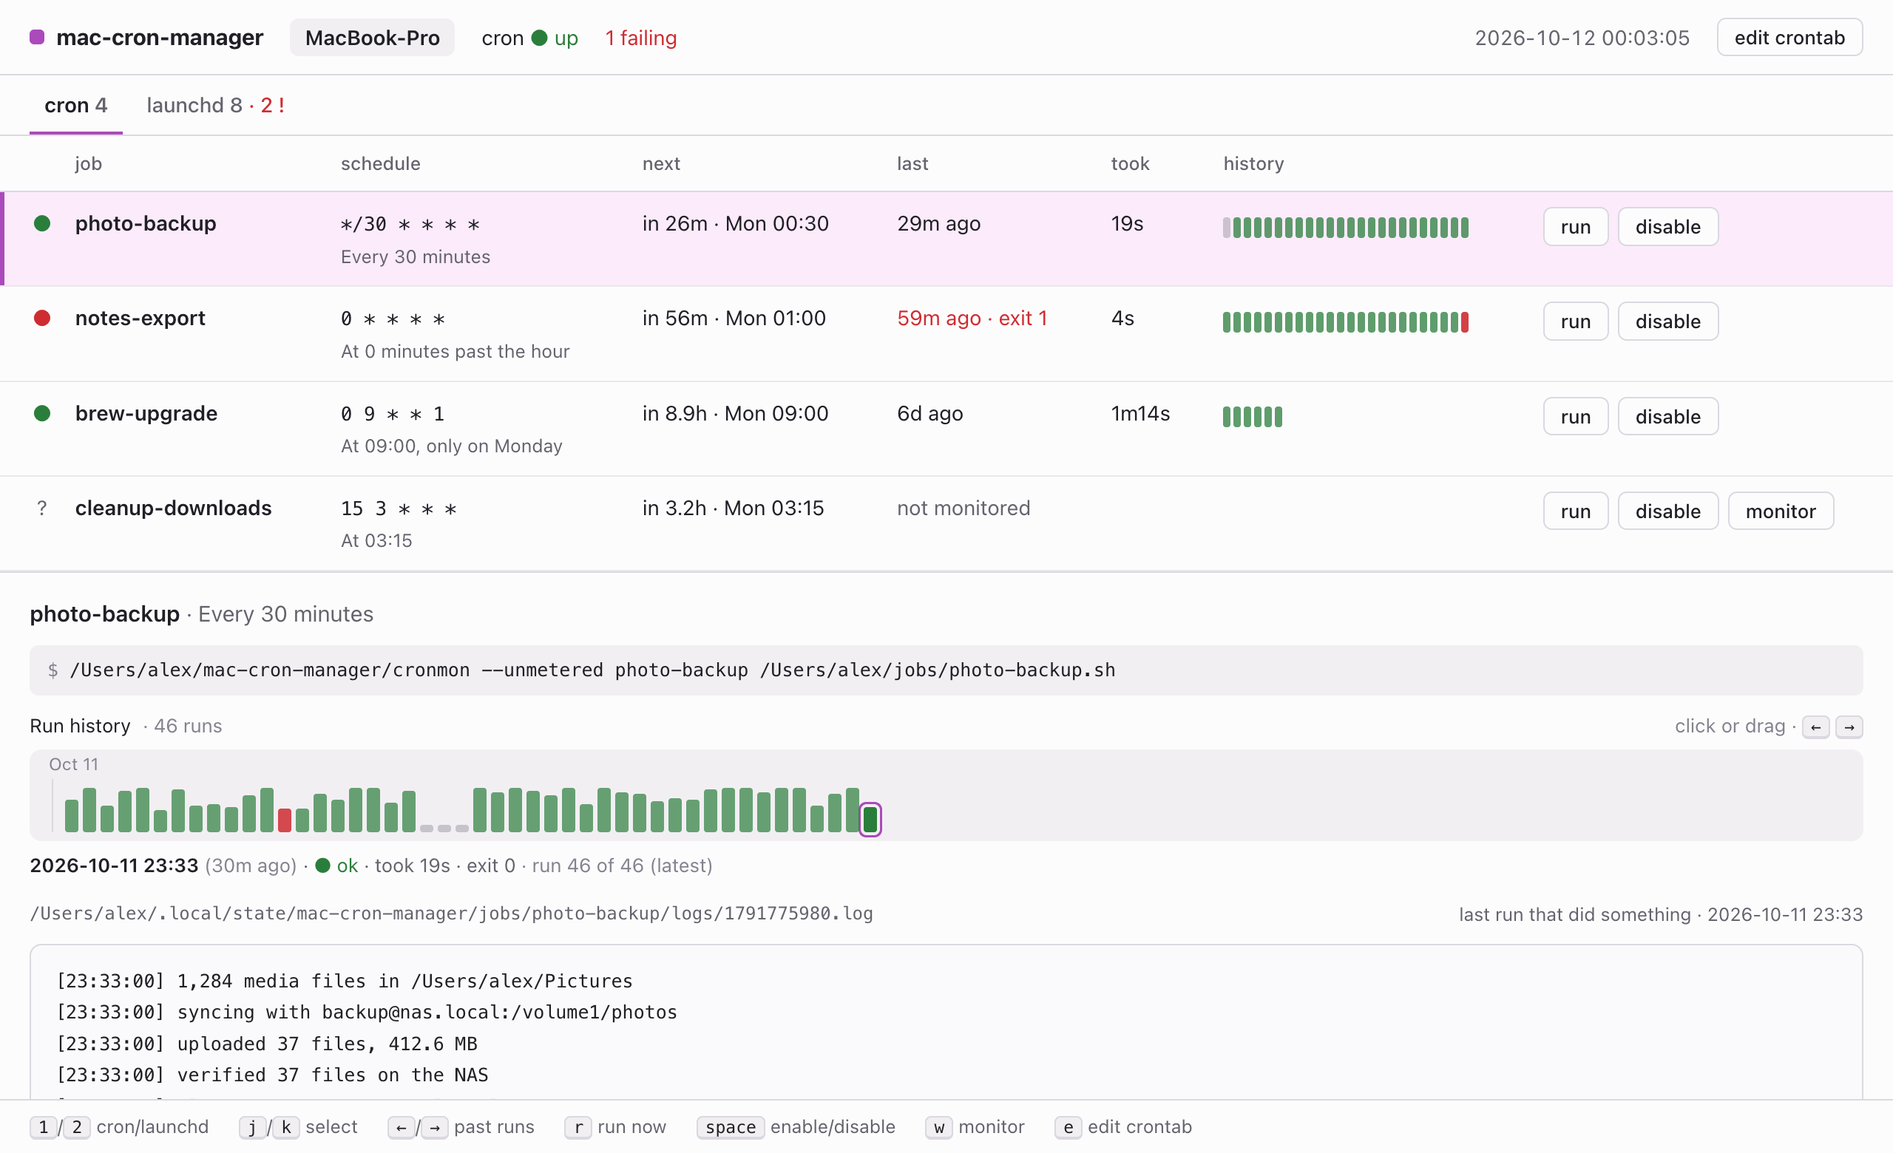
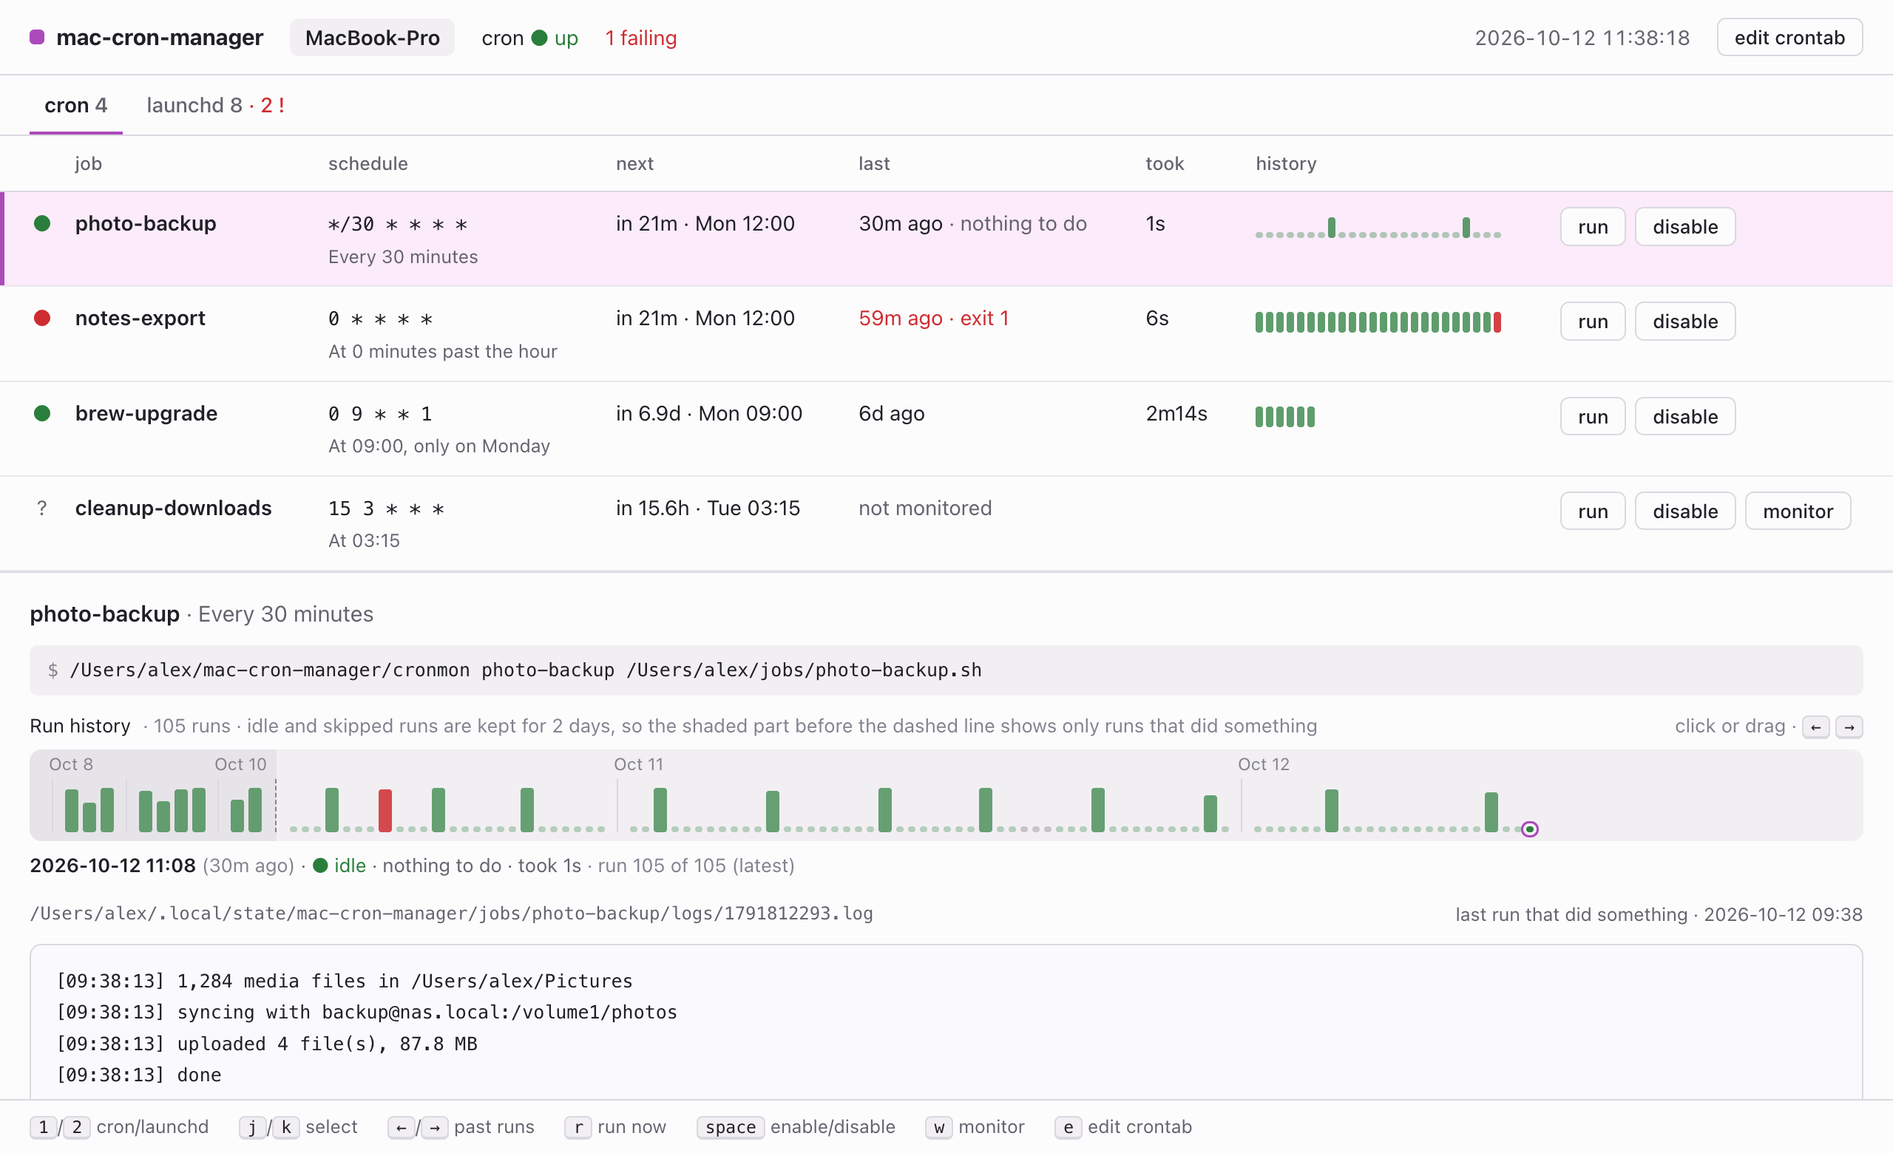
Idle runs, kept history and a generic --when check
- A job can write "idle" or a one-line summary to $CRONMON_RESULT. Idle and
  skipped runs show as dots and are kept for MCM_KEEP_IDLE_DAYS (2); runs that
  did something stay, with the output of the last MCM_KEEP_LOGS (100). The
  timeline shades the older part where only those are left, and the log pane
  defaults to the last run that did something.
- cronmon --unmetered becomes --when CHECK: any shell command, checked before
  the run and every 20 s during it. netcheck, the hotspot check it used, leaves
  this repo.
- Job names are parsed with shell rules, so --when "..." with spaces works.
- Next runs more than two days away read in days.

diff --git a/static/index.html b/static/index.html
@@ -81,21 +81,28 @@
   .dot { display: inline-block; width: 1.2em; text-align: center; }
   .spin { display: inline-block; animation: spin 1s steps(8) infinite; }
   @keyframes spin { to { transform: rotate(360deg); } }
-  .hist { display: inline-flex; gap: 2px; vertical-align: middle; padding-top: 3px; }
+  .hist { display: inline-flex; align-items: flex-end; gap: 2px; vertical-align: middle; height: 17px; }
   .hist i { width: 5px; height: 14px; border-radius: 2px; background: var(--ok); opacity: .75; cursor: pointer; }
   .hist i.fail { background: var(--fail); opacity: .9; } .hist i.skipped { background: var(--faint); opacity: .4; }
+  .hist i.idle, .hist i.skipped { height: 4px; } .hist i.idle { opacity: .35; }
   .hist i:hover { opacity: 1; } .hist i.on { opacity: 1; box-shadow: 0 0 0 1.5px var(--accent); }
 
   .runs { display: flex; flex-direction: column; gap: 6px; }
   .runhead { display: flex; align-items: center; gap: 8px; font-size: 13px; }
   .runhead button { padding: 1px 9px; font-size: 12.5px; }
-  .strip { position: relative; display: flex; align-items: stretch; gap: 3px; height: 62px; padding: 20px 10px 6px;
+  .strip { position: relative; isolation: isolate; display: flex; align-items: stretch; gap: 3px; height: 62px; padding: 20px 10px 6px;
            overflow-x: auto; overflow-y: hidden; background: var(--panel); border-radius: 8px; cursor: pointer;
            user-select: none; -webkit-user-select: none; touch-action: pan-y; scrollbar-width: thin; }
   .strip i { flex: 0 0 9px; display: flex; align-items: flex-end; }
   .strip i::after { content: ""; width: 100%; height: var(--h); border-radius: 2px; background: var(--ok); opacity: .7; }
   .strip i.fail::after { background: var(--fail); opacity: .85; }
   .strip i.skipped::after { background: var(--faint); opacity: .4; }
+  .strip i.idle, .strip i.skipped { flex-basis: 5px; }   /* did nothing: a dot, not a bar */
+  .strip i.idle::after { opacity: .3; }
+  /* left of the dashed line, idle and skipped runs are no longer kept: shade that part */
+  .strip .cut { flex: 0 0 0; border-left: 1px dashed var(--faint); position: relative; margin: 0 6px; }
+  .strip .cut::before { content: ""; position: absolute; z-index: -1; right: 0; top: -20px; bottom: -6px; width: 100000px;
+                        background: color-mix(in srgb, var(--faint) 10%, transparent); }
   .strip i.running::after { opacity: 1; animation: pulse 1.2s ease-in-out infinite alternate; }
   @keyframes pulse { from { opacity: .35; } }
   .strip i:hover::after { opacity: 1; }
@@ -201,6 +208,7 @@ let filter = "all";
 let sel = { cron: null, launchd: null };
 let detailKey = null, logSig = null, follow = true;
 let runs = {}, runsSig = {};   // cron job name -> all recorded runs (/api/runs), and what they were fetched for
+let idleDays = 2;              // idle and skipped runs older than this are no longer kept (cronmon's MCM_KEEP_IDLE_DAYS)
 let selRun = {};               // cron job name -> start of the past run being viewed (absent: the latest)
 let logTimer = null, reveal = false;  // reveal: scroll the selected run into view once
 
@@ -252,6 +260,7 @@ function cronLast(j) {
   if (!j.last) return '<span class="dim">never</span>';
   if (j.last.status === "fail") return `<span class="fail">${ago(j.last.end)} · exit ${j.last.exit}</span>`;
   if (j.last.status === "skipped") return `${ago(j.last.end)} <span class="dim">· skipped${j.last.reason ? ` (${esc(j.last.reason)})` : ""}</span>`;
+  if (j.last.status === "idle") return `${ago(j.last.end)} <span class="dim">· nothing to do</span>`;
   return ago(j.last.end);
 }
 function cronTook(j) {
@@ -268,7 +277,7 @@ const cronRow = (j) => `
     <td>${cronLast(j)}</td>
     <td>${cronTook(j)}</td>
     <td><span class="hist">${j.history.map((h) => `<i class="${h.status} ${selRun[j.name] === h.start ? "on" : ""}" data-run="${h.start}"
-      title="${esc(`${when(h.start)} · ${h.reason || h.status}`)}"></i>`).join("")}</span></td>
+      title="${esc(`${when(h.start)} · ${h.summary || h.reason || h.status}`)}"></i>`).join("")}</span></td>
     <td><span class="actions">
       <button data-act="run" ${j.running_since ? "disabled" : ""} title="r">run</button>
       <button data-act="toggle" title="space">${j.enabled ? "disable" : "enable"}</button>
@@ -412,16 +421,18 @@ function showLog(text, files, empty = "(no log)") {
 async function loadCronLog(j) {
   if (!j.monitored) { showLog("", ""); return; }
   loadRuns(j);
-  const run = selRun[j.name];
+  const picked = selRun[j.name];
+  // Unless a run is picked (or one is live), show the last run that did something, not the latest idle one.
+  const real = runList(j).filter((x) => x.status === "ok" || x.status === "fail").at(-1);
+  const run = picked ?? (j.running_since ? undefined : real?.start);
   try {
     const data = await api(`/api/log?name=${encodeURIComponent(j.name)}` + (run ? `&run=${run}` : ""));
-    if (tab !== "cron" || j.name !== sel.cron || selRun[j.name] !== run) return;
+    if (tab !== "cron" || j.name !== sel.cron || selRun[j.name] !== picked) return;
     const r = run && runList(j).find((x) => x.start === run);
     const empty = r?.status === "skipped" ? `(skipped${r.reason ? `: ${r.reason}` : ""}: nothing ran, so there is no output)`
-      : run ? "(this run's output wasn't kept: output is saved per run from now on, for the last 100 runs)" : "(no log)";
+      : run ? "(this run's output wasn't kept: only the last 100 runs that did something keep theirs)" : "(no log)";
     $("#logfile").textContent = data.exists ? data.file : "";
-    const real = runList(j).filter((x) => x.status !== "skipped").at(-1);  // skipped runs leave last.log alone
-    $("#logstate").innerHTML = run ? `run of ${esc(when(run))}` : j.running_since ? '<span class="ok">● live</span>'
+    $("#logstate").innerHTML = picked ? `run of ${esc(when(picked))}` : j.running_since ? '<span class="ok">● live</span>'
       : real ? `last run that did something · ${esc(when(real.start))}` : "last run";
     showLog(data.exists ? data.text : "", data.file, empty);
   } catch { /* agent restarting; next poll retries */ }
@@ -437,14 +448,18 @@ function runList(j) {
 async function loadRuns(j) {
   const sig = `${j.last?.start}:${j.last?.end}:${j.running_since}`;
   if (runsSig[j.name] !== sig) {
-    try { runs[j.name] = (await api(`/api/runs?name=${encodeURIComponent(j.name)}`)).runs; } catch { return; }
+    try {
+      const data = await api(`/api/runs?name=${encodeURIComponent(j.name)}`);
+      runs[j.name] = data.runs;
+      idleDays = data.idle_days ?? idleDays;
+    } catch { return; }
     runsSig[j.name] = sig;
   }
   if (tab === "cron" && sel.cron === j.name) drawStrip(j);
 }
 
 function barHeight(r) {
-  if (r.status === "skipped") return 5;
+  if (r.status === "skipped" || r.status === "idle") return 4;
   if (r.status === "running") return 30;
   return Math.round(Math.min(30, 6 + 5 * Math.log2(1 + (r.end - r.start) / 5)));  // longer runs, taller bars
 }
@@ -456,19 +471,31 @@ function drawStrip(j) {
   const sig = `${list.length}:${list.at(-1)?.start}:${list.at(-1)?.status}`;
   if (strip.dataset.sig !== sig) {
     const atEnd = !strip.dataset.sig || strip.scrollLeft + strip.clientWidth >= strip.scrollWidth - 4;
-    let html = "", day = "";
-    for (const r of list) {
+    const cutoff = Date.now() / 1000 - idleDays * 86400;
+    let html = "", day = "", cut = false, x = 0, labelX = -1e9;  // x: rough position, to keep day labels apart
+    for (const [i, r] of list.entries()) {
+      if (!cut && r.start >= cutoff) {  // before this point, only the runs that did something are kept
+        cut = true;
+        if (i > 0) html += `<span class="cut" title="idle and skipped runs are kept for ${idleDays} days"></span>`;
+        x += 12;
+      }
       const d = new Date(r.start * 1000);
       if (d.toDateString() !== day) {
         day = d.toDateString();
-        html += `<span class="day"><em>${d.toLocaleDateString(undefined, { month: "short", day: "numeric" })}</em></span>`;
+        const room = x - labelX >= 56;
+        if (room) labelX = x;
+        html += `<span class="day">${room ? `<em>${d.toLocaleDateString(undefined, { month: "short", day: "numeric" })}</em>` : ""}</span>`;
+        x += 11;
       }
       html += `<i class="${r.status}" data-run="${r.start}" style="--h:${barHeight(r)}px"></i>`;
+      x += r.status === "idle" || r.status === "skipped" ? 8 : 12;
     }
+    const kept = list.length && list[0].start < cutoff;
     strip.innerHTML = html || '<span class="faint">no runs yet</span>';
     strip.dataset.sig = sig;
     if (atEnd) strip.scrollLeft = strip.scrollWidth;
-    $("#runcount").textContent = list.length ? `· ${list.length} runs` : "";
+    $("#runcount").textContent = !list.length ? "" : `· ${list.length} runs · idle and skipped runs are kept for ${idleDays} days`
+      + (kept ? ", so the shaded part before the dashed line shows only runs that did something" : "");
   }
   markRun(j);
 }
@@ -492,7 +519,8 @@ function markRun(j) {
   if (!r) { $("#runmeta").innerHTML = ""; return; }
   const pos = `<span class="faint">· run ${i + 1} of ${list.length}${j.name in selRun ? "" : " (latest)"}</span>`;
   const head = {
-    ok: `<span class="ok">● ok</span> · took ${dur(r.end - r.start)} · exit 0`,
+    ok: `<span class="ok">● ok</span>${r.summary ? ` · ${esc(r.summary)}` : ""} · took ${dur(r.end - r.start)} · exit 0`,
+    idle: `<span class="ok">● idle</span> · nothing to do · took ${dur(r.end - r.start)}`,
     fail: `<span class="fail">● failed</span> · took ${dur(r.end - r.start)} · exit ${r.exit}`,
     skipped: `<span class="faint">● skipped</span>${r.reason ? ` · ${esc(r.reason)}` : ""}`,
     running: `<span class="ok">● running</span> · ${dur(Date.now() / 1000 - r.start)} so far`,

diff --git a/docs/screenshots.py b/docs/screenshots.py
@@ -32,23 +32,35 @@ random.seed(7)
 
 # ---------------------------------------------------------------- made-up cron jobs
 
-def make_runs(every: int, count: int, took: tuple[int, int], fail_at=(), skip_at=()) -> list[dict]:
+def make_runs(every: int, count: int, took: tuple[int, int], fail_at=(), skip_at=(), work_at=None) -> list[dict]:
+    """Runs ending now. With work_at, only those runs did something and the rest were idle; like cronmon,
+    idle and skipped runs older than two days are left out."""
     runs = []
     for i in range(count):
         start = NOW - (count - i) * every + random.randint(0, 3)
         if i in skip_at:
-            runs.append({"start": start, "end": start, "exit": None, "status": "skipped", "reason": "iPhone Personal Hotspot"})
+            run = {"start": start, "end": start, "exit": None, "status": "skipped", "reason": "iPhone Personal Hotspot"}
+        elif i in fail_at:
+            run = {"start": start, "end": start + random.randint(*took), "exit": 1, "status": "fail"}
+        elif work_at is not None and i not in work_at:
+            run = {"start": start, "end": start + random.randint(1, 3), "exit": 0, "status": "idle"}
+        else:
+            run = {"start": start, "end": start + random.randint(*took), "exit": 0, "status": "ok"}
+            if work_at is not None:
+                n = random.randint(3, 60)
+                run["summary"] = f"uploaded {n} file(s), {n * random.uniform(8, 30):.1f} MB" + (
+                    f"; deleted {random.randint(5, 80)}" if random.random() < .5 else "")
+        if run["status"] in ("idle", "skipped") and start < NOW - 2 * 86400:
             continue
-        end = start + random.randint(*took)
-        status = "fail" if i in fail_at else "ok"
-        runs.append({"start": start, "end": end, "exit": 1 if status == "fail" else 0, "status": status})
+        runs.append(run)
     return runs
 
 
 CRON = [
     ("photo-backup", "*/30 * * * *", "Every 30 minutes",
-     f"{HOME}/mac-cron-manager/cronmon --unmetered photo-backup {HOME}/jobs/photo-backup.sh",
-     make_runs(1800, 46, (4, 190), fail_at={12}, skip_at={20, 21, 22})),
+     f"{HOME}/mac-cron-manager/cronmon photo-backup {HOME}/jobs/photo-backup.sh",
+     make_runs(1800, 190, (20, 190), fail_at={101}, skip_at={150, 151, 152},
+               work_at={3, 11, 19, 27, 40, 52, 66, 79, 88, 97, 105, 112, 121, 130, 139, 147, 156, 165, 173, 186})),
     ("notes-export", "0 * * * *", "At 0 minutes past the hour",
      f"{HOME}/mac-cron-manager/cronmon notes-export {HOME}/jobs/notes-export.sh",
      make_runs(3600, 24, (2, 9), fail_at={23})),
@@ -61,9 +73,8 @@ CRON = [
 LOGS = {
     "photo-backup": """[{t}] 1,284 media files in {home}/Pictures
 [{t}] syncing with backup@nas.local:/volume1/photos
-[{t}] uploaded 37 files, 412.6 MB
-[{t}] verified 37 files on the NAS
-[{t}] cleanup: 52 verified files older than 30 days can be removed""",
+[{t}] {summary}
+[{t}] done""",
     "notes-export": """[{t}] exporting 312 notes to {home}/Documents/notes-export
 [{t}] error: {home}/Documents/notes-export: Operation timed out
 [{t}] export failed after 1 attempt""",
@@ -77,7 +88,7 @@ def cron_json(i, name, schedule, desc, command, runs):
         "command": command, "enabled": True, "monitored": monitored, "running_since": None,
         "next": core.next_run(core.Job(i, "", schedule, command, True, name, monitored)),
         "last": runs[-1] if runs else None,
-        "history": [{"start": r["start"], "status": r["status"], "reason": r.get("reason", "")} for r in runs[-24:]],
+        "history": [{k: r.get(k) for k in ("start", "status", "reason", "summary")} for r in runs[-24:]],
         "warning": "",
     }
 
@@ -85,10 +96,12 @@ def cron_json(i, name, schedule, desc, command, runs):
 def log_for(name: str, run: str) -> dict:
     runs = next(r for n, *_, r in CRON if n == name)
     start = int(run) if run.isdigit() else next((r["start"] for r in reversed(runs) if r["status"] != "skipped"), NOW)
-    if any(r["start"] == start and r["status"] == "skipped" for r in runs):
+    r = next((r for r in runs if r["start"] == start), {})
+    if r.get("status") == "skipped":
         return {"file": "", "text": "", "exists": False}
     t = time.strftime("%H:%M:%S", time.localtime(start))
-    text = LOGS.get(name, "[{t}] done").format(t=t, home=HOME)
+    summary = r.get("summary") or ("nothing new to upload or delete" if r.get("status") == "idle" else "uploaded 37 files, 412.6 MB")
+    text = LOGS.get(name, "[{t}] done").format(t=t, home=HOME, summary=summary)
     return {"file": f"{STATE}/{name}/logs/{start}.log", "text": text, "exists": True}
 
 
@@ -153,7 +166,7 @@ class Handler(BaseHTTPRequestHandler):
                                "jobs": [cron_json(i, *job) for i, job in enumerate(CRON)]})
         if url.path == "/api/runs":
             runs = next(r for n, *_, r in CRON if n == q["name"])
-            return self.reply({"runs": [{**r, "log": r["status"] != "skipped"} for r in runs]})
+            return self.reply({"runs": [{**r, "log": r["status"] != "skipped"} for r in runs], "idle_days": 2})
         if url.path == "/api/log":
             return self.reply(log_for(q["name"], q.get("run", "")))
         if url.path == "/api/launchd":

diff --git a/core.py b/core.py
@@ -22,7 +22,6 @@ STATE = Path(os.environ.get("MCM_STATE", Path.home() / ".local/state/mac-cron-ma
 OFF = "#off# "
 HISTORY_LEN = 24
 ENV_RE = re.compile(r"^[A-Za-z_][A-Za-z0-9_]*\s*=")
-CRONMON_RE = re.compile(r"cronmon\s+(?:--\S*\s+)*([^-\s]\S*)")  # skips options like --unmetered
 TCC_HINT = ("macOS blocked file access: add /usr/sbin/cron to System Settings → "
             "Privacy & Security → Full Disk Access.")
 
@@ -102,6 +101,21 @@ def split_line(raw: str):
     return (" ".join(parts[:n]), parts[n], enabled) if len(parts) == n + 1 else None
 
 
+def cronmon_name(command: str) -> str | None:
+    """The job name in `.../cronmon [--when CHECK] NAME COMMAND...`, or None if cronmon isn't used."""
+    try:
+        words = shlex.split(command)
+    except ValueError:
+        return None
+    for i, word in enumerate(words):
+        if Path(word).name == "cronmon":
+            rest = words[i + 1:]
+            while rest and rest[0].startswith("--"):
+                rest = rest[2:] if rest[0] == "--when" else rest[1:]
+            return rest[0] if rest else None
+    return None
+
+
 def parse_jobs(lines: list[str]) -> list[Job]:
     jobs = []
     for i, raw in enumerate(lines):
@@ -109,9 +123,8 @@ def parse_jobs(lines: list[str]) -> list[Job]:
         if not parsed:
             continue
         schedule, command, enabled = parsed
-        m = CRONMON_RE.search(command)
-        name = m.group(1) if m else Path(command.split()[0]).name
-        jobs.append(Job(i, raw, schedule, command, enabled, name, bool(m)))
+        name = cronmon_name(command)
+        jobs.append(Job(i, raw, schedule, command, enabled, name or Path(command.split()[0]).name, bool(name)))
     return jobs
 
 
@@ -180,7 +193,7 @@ def cron_up() -> bool:
 def until(when: datetime) -> str:
     """'in 25m · Sun 23:30'"""
     delta = (when - datetime.now()).total_seconds()
-    left = f"{int(delta // 60)}m" if delta < 3600 else f"{delta / 3600:.1f}h"
+    left = f"{int(delta // 60)}m" if delta < 3600 else f"{delta / 3600:.1f}h" if delta < 2 * 86400 else f"{delta / 86400:.1f}d"
     return f"in {left} · {when:%a %H:%M}"
 
 

diff --git a/web.py b/web.py
@@ -29,6 +29,7 @@ LOCAL_ORIGINS = {f"http://{h}" for h in ALLOWED_HOSTS}
 HOSTED_ORIGINS = {o.strip().rstrip("/") for o in
                   os.environ.get("MCM_HOSTED_ORIGINS", "https://induction-axiom.github.io").split(",") if o.strip()}
 INDEX = core.HERE / "static" / "index.html"
+KEEP_IDLE_DAYS = int(os.environ.get("MCM_KEEP_IDLE_DAYS", "2"))  # cronmon's default too
 
 
 def job_json(job: core.Job) -> dict:
@@ -37,7 +38,7 @@ def job_json(job: core.Job) -> dict:
         "schedule": job.schedule, "desc": core.describe(job.schedule), "command": job.command,
         "enabled": job.enabled, "monitored": job.monitored, "running_since": job.running_since,
         "next": core.next_run(job), "last": job.last,
-        "history": [{"start": r["start"], "status": r["status"], "reason": r.get("reason", "")} for r in job.history],
+        "history": [{k: r.get(k) for k in ("start", "status", "reason", "summary")} for r in job.history],
         "warning": job.warning(),
     }
 
@@ -112,7 +113,8 @@ class Handler(BaseHTTPRequestHandler):
             if not job:
                 return self.reply(404, {"error": "no such job"})
             if path == "/api/runs":
-                return self.reply(200, {"runs": [{**r, "log": job.run_log(r["start"]).exists()} for r in job.runs]})
+                return self.reply(200, {"runs": [{**r, "log": job.run_log(r["start"]).exists()} for r in job.runs],
+                                        "idle_days": KEEP_IDLE_DAYS})
             run = self.query("run")
             f = job.run_log(int(run)) if run.isdigit() else job.log_file
             text = "\n".join(f.read_text(errors="replace").splitlines()[-500:]) if f.exists() else ""

diff --git a/README.md b/README.md
@@ -44,14 +44,25 @@ command yourself:
 */30 * * * * ~/mac-cron-manager/cronmon photo-backup ~/jobs/photo-backup.sh
 ```
 
-Add `--unmetered` after `cronmon` to skip a job while your Mac is on a phone
-hotspot.
+A job can also write `idle` to the file named by `$CRONMON_RESULT` when there
+was nothing to do, or a one-line summary of what it did. Idle runs show as small
+dots and are kept for two days, so the runs that did something stay easy to find.
+
+To run a job only while some condition holds, add `--when` and a shell command.
+For example, only on power:
+
+```
+*/30 * * * * ~/mac-cron-manager/cronmon --when "pmset -g ps | grep -q 'AC Power'" photo-backup ~/jobs/photo-backup.sh
+```
+
+The run is skipped when the command fails, and stopped if it starts failing
+while the job runs.
 
 A few things about cron on macOS:
 
 - Jobs that read `~/Pictures`, `~/Documents` or `~/Desktop` need **Full Disk
   Access** for `/usr/sbin/cron` (System Settings → Privacy & Security).
-- Jobs don't run while your Mac is asleep, and aren't caught up afterwards.
+- Jobs don't run while your Mac is asleep.
 
 To update, `git pull` and run `install.sh` again. To remove it, run
 `install.sh --uninstall`.
